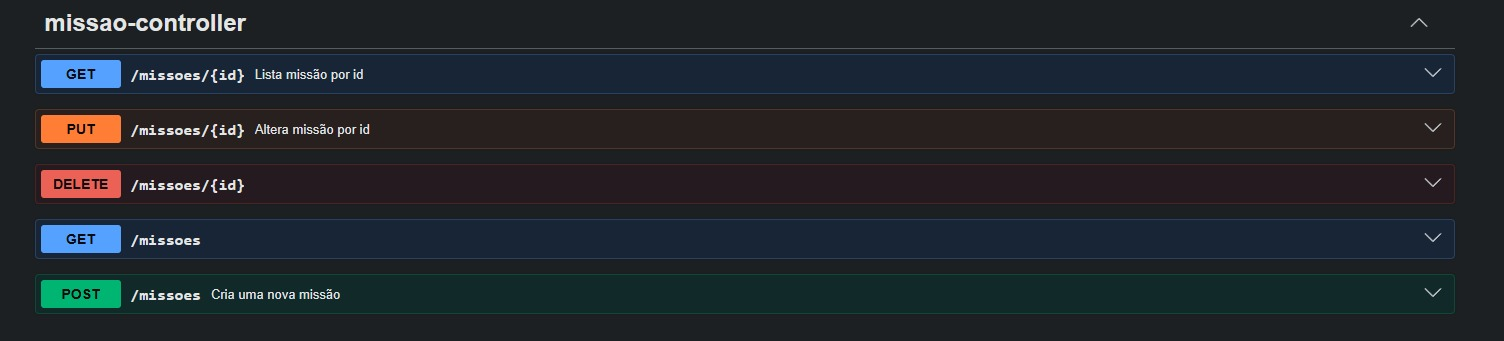
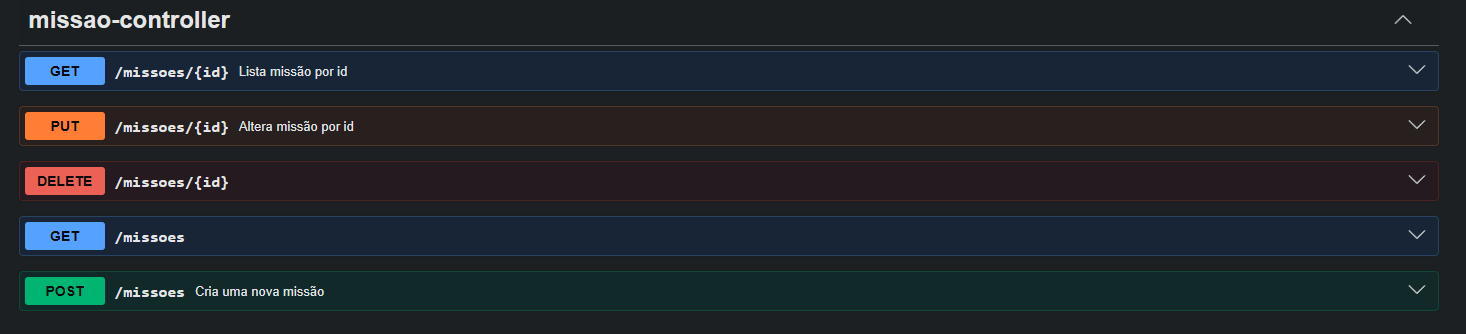
docs: finalizar readme com prints e guia de execução

diff --git a/README.md b/README.md
@@ -41,5 +41,5 @@ Nesta etapa do projeto, foquei em elevar a qualidade do código através de:
 Certifique-se de ter o **Docker Desktop** instalado e rodando.
 
 1. Clone o repositório:
-   ```bash
-   git clone [https://github.com/ivanmtr/CadastroDeNinjas.git](https://github.com/ivanmtr/CadastroDeNinjas.git)
+```bash
+git clone https://github.com/ivanmtr/CadastroDeNinjas.git
